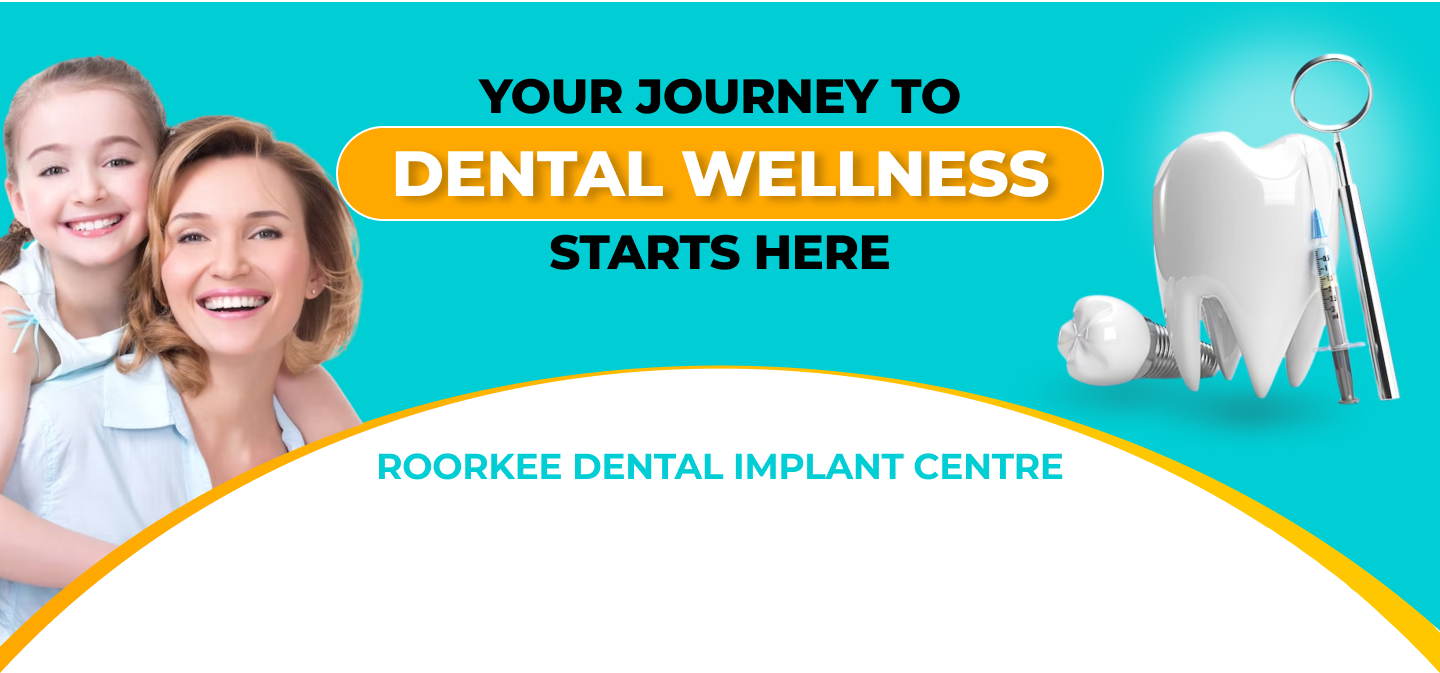
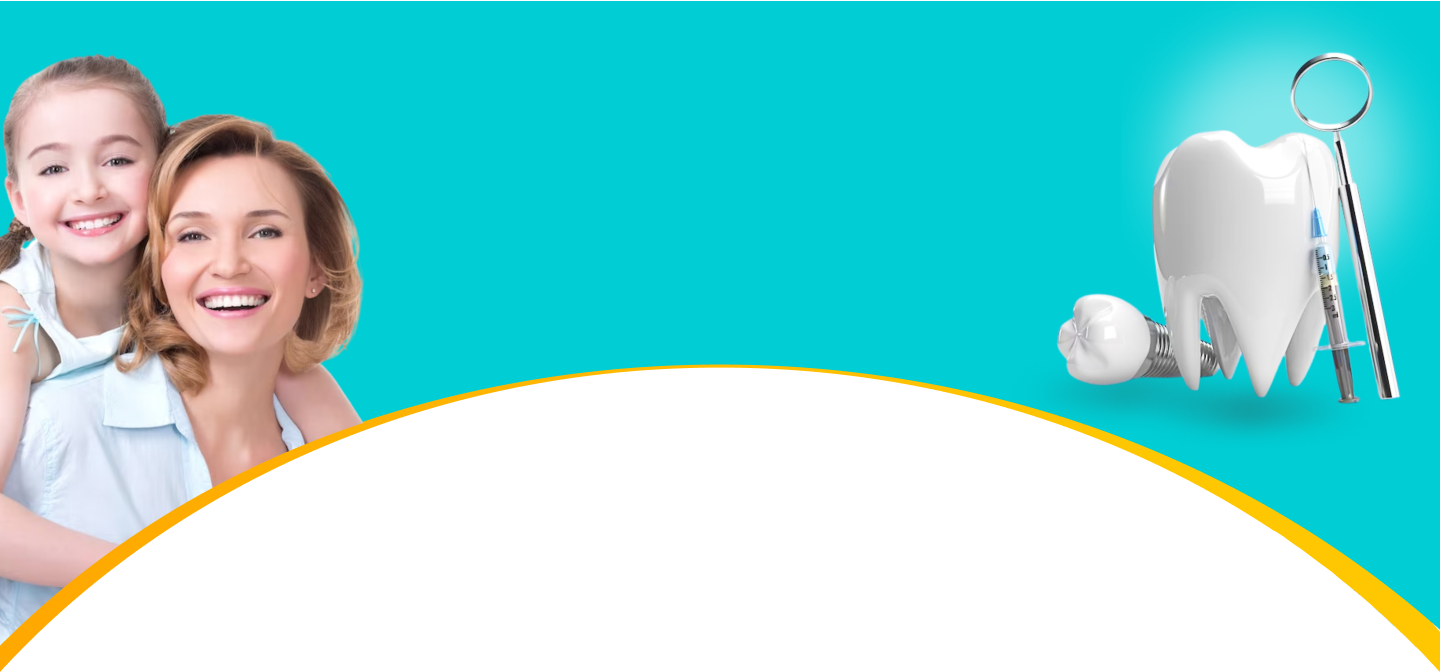
Add files via upload

diff --git a/assets/css/style.css b/assets/css/style.css
@@ -79,6 +79,12 @@ a {
 .secondColor {
 	background: var(--secondColor);
 }
+.mid-header .w-auto .d-flex {
+  transition: all .4s linear;
+}
+.mid-header .w-auto .d-flex:hover .icon {
+  background: #fff;
+}
 .header-contact .icon {
 	width: 42px;
 	height: 42px;
@@ -162,6 +168,45 @@ a {
   color: var(--primaryColor);
   padding: 22px 0;
 }
+.main-title {
+  font-size: 38px;
+  color: #000;
+  font-weight: 800;
+  text-transform: uppercase;
+  text-align: center;
+}
+.banner-content {
+  z-index: 1;
+}
+.main-title strong {
+  font-weight: 800;
+  font-size: 52px;
+  background: #ffa800;
+  border-radius: 70px;
+  color: #fff;
+  border: 2px solid #fff;
+  text-shadow: 0 2px 4px #00000040;
+  padding: 0px 50px;
+  line-height: 78.02px;
+}
+.main-title {
+  font-size: 38px;
+  color: #000;
+  font-weight: 800;
+  text-transform: uppercase;
+  text-align: center;
+  line-height: 40px;
+  margin-bottom: 0;
+}
+.banner-content {
+  top: 10%;
+}
+.bannersub-title {
+  font-size: 36px;
+  font-weight: 700;
+  color: var(--primaryColor);
+  margin-top: -69px;
+}
 .whychoose-list-end::before {
 	right: 0;
 	left: auto;
@@ -191,6 +236,35 @@ a {
   display: flex;
   align-items: center;
   padding-left: 10px;
+  transition: all 300ms;
+  cursor: auto;
+}
+.queries-form .form-label span {
+  color: red;
+}
+.queries-form .form-control:focus + label, .queries-form .form-control:not(:placeholder-shown) + label {
+  left: 0;
+  transform: translateX(-100%);
+}
+.queries-form input::-webkit-input-placeholder{
+  visibility: hidden;
+  opacity: 0;
+  color: #fff;
+}
+.queries-form textarea::-webkit-input-placeholder{
+  visibility: hidden;
+  opacity: 0;
+  color: #fff;
+}
+.queries-form input:-moz-placeholder, .queries-form input::-moz-placeholder {
+  visibility: hidden;
+  opacity: 0;
+  color: #fff;
+}
+.queries-form textarea:-moz-placeholder, .queries-form textarea::-moz-placeholder {
+  visibility: hidden;
+  opacity: 0;
+  color: #fff;
 }
 .btn-all {
   background: var(--btnBg);
@@ -209,6 +283,7 @@ a {
 .overlay {
   transition: all 0.3s;
 }
+
 .overlay:hover {
 	background: #000A0A17;
 	cursor: pointer;
@@ -297,19 +372,25 @@ h3 {
 	transform: scale(1.1);
 }
 .blog-thum::before {
-	content: "";
-	display: block;
-	width: 100%;
-	height: 0;
-	background: var(--lightBg);
-	position: absolute;
-	bottom: 0;
-	left: 0;
-	z-index: 1;
-	transition: all 0.3s;
+position: absolute;
+  border-radius: 50%;
+  width: 0;
+  height: 0;
+  top: 50%;
+  left: 50%;
+  background-color: rgba(255, 255, 255, 0.3);
+  content: "";
+  z-index: 2;
 }
 .blog-post:hover .blog-thum::before {
-	height: 100%;
+	top: 0;
+  left: 0;
+  right: 0;
+  bottom: 0;
+  width: 100%;
+  height: 100%;
+  opacity: 0;
+  transition: all 0.6s;
 }
 .blog-title {
   font-size: 24px;
@@ -421,6 +502,7 @@ h3 {
   right: 0;
   margin: 0px auto;
   bottom: 24px;
+  background-position: top;
 }
 .banner-title {
   color: var(--primaryColor);
@@ -486,13 +568,88 @@ button {
   outline: none !important;
   box-shadow: none !important;
 }
+footer.footer-block {
+  background: url('../img/footer-logo-bg.png') no-repeat;
+  background-position: center right;
+  background-color: var(--secondColor);
+}
+.cases-block {
+  width: 53px;
+  height: 19vh;
+  display: flex;
+  align-items: center;
+  justify-content: center;
+  background: var(--primesecondColor);
+}
+.year-number strong {
+  transform: rotate(-90deg);
+  font-family: 'Montserrat', sans-serif;
+  font-size: 14px;
+  font-weight: 700;
+}
+.casenm-block {
+  top: -22px;
+  font-size: 13px;
+  font-weight: 600;
+} 
+.casenm-block sub {
+  font-size: 8px;
+}
 
 
+
+/* ------------Media Query----------------- */
+
+
+@media (min-width: 992px) {
+  .dropdown-menu-sub {
+  border-radius: 5px !important;
+  transition: transform .2s ease-out;
+  transform: translate3d(0,10px,0);
+  top: 35px;
+  display: block;
+  opacity: 0;
+  left: auto;
+  box-shadow: 0 15px 30px -5px rgba(0,0,0,.07);
+  margin: 0;
+  min-width: 260px;
+  padding: 5px 0;
+  text-align: left;
+  position: absolute;
+  z-index: 99;
+  background: #fff;
+}
+.main-header .navbar li:hover .dropdown-menu-sub {
+  transform: translate3d(0,0,0);
+  top: auto;
+    display: block;
+    opacity: 1;
+}
+.main-header .navbar li .dropdown-menu-sub a {
+  border-bottom: 1px solid #f7f7f7;
+  font-size: 16px;
+  padding: 5px 18px !important;
+}
+.main-header .navbar li a i {
+  font-size: 18px;
+  transition: transform .2s ease-out;
+}
+.main-header .navbar li .dropdown-menu-sub li:last-child a {
+  border-bottom: 0;
+}
+.main-header .navbar li:hover a i {
+  transform: rotate(-180deg);
+}
+
+}
 
 @media (max-width: 1220px) {
   .container {
     width: 100%;
     max-width: 100%;
+  }
+  .main-header .navbar li a {
+    font-size: 18px;
   }
 }
 
@@ -515,6 +672,12 @@ button {
 .main-header .navbar-nav {
   margin: 0px !important;
   padding: 10px 0;
+}
+.dropdown-menu-sub {
+  display: none;
+}
+.submenuopen {
+  display: block;
 }
 
 }
@@ -550,6 +713,33 @@ padding: 0;
 .border-contact-ft {
   border: 0;
 }
+.main-title {
+  font-size: 14px;
+  line-height: 24px;
+}
+.banner-content {
+  left: auto !important;
+  top: 15px;
+  padding-right: 15px;
+}
+.main-title strong {
+  font-size: 16px;
+  padding: 0px 18px;
+  line-height: normal;
+}
+.bannersub-title {
+  font-size: 16px;
+  font-weight: 700;
+  margin-top: 0;
+  position: relative;
+  top: 35px;
+  text-shadow: 1px 0px 4px #fff;
+  z-index: 1;
+}
+.banner-box {
+  min-height: 42vh;
+}
+
 
 }
 
